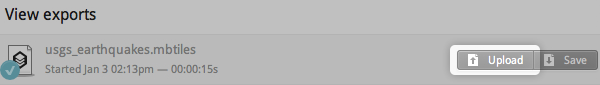
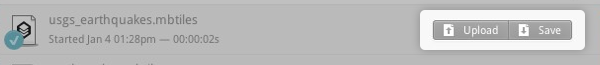
adding images, uploading doc, and geodata change

diff --git a/_posts/docs/crashcourse/0203-10-01-uploading.md b/_posts/docs/crashcourse/0203-10-01-uploading.md
@@ -1,0 +1,39 @@
+---
+layout: book
+section: documentation
+category: TileMill
+tag: crashcourse
+title: "Uploading maps"
+permalink: /docs/crashcourse/uploading/
+prereq:
+- "[Designed](http://mapbox.com/tilemill/docs/manual/) a map in [TileMill](http://mapbox.com/tilemill/)."
+nextup:
+- "[Editing](/hosting/editing) options on your map."
+- "[Compositing](/hosting/compositing) your map with other map layers."
+- "[Embedding](/hosting/embedding) your map on web pages and blogs."
+---
+{% include prereq.html %}
+
+Now that you've exported your map and created an [MBTiles](/mbtiles-spec) file, you can upload your map to MapBox Hosting.
+
+We'll use the earthquakes layer you exported in the previous section and upload directly to your account through TileMill.  
+
+1. Click the **Upload** button in the TileMill exports panel. 
+  ![Preview](/tilemill/assets/pages/upload-1.png)
+
+2. You will see a popup with a preview of your map so you can check it one last time. Once you're ready click the **Start Upload** button.
+  ![upload](/tilemill/assets/pages/upload-2.png)
+
+3. You will see a progress bar as your map uploads. 
+  ![upload](/tilemill/assets/pages/upload-2b.png)
+
+4. Once your map is uploaded, click **View** to preview the map on MapBox. 
+  ![upload](/tilemill/assets/pages/upload-3.png)
+
+5. At this time, your map will open up in your default browser and you will see a preview of your map. This preview map is temporary and will expire after 7 days unless you *publish* the map to a MapBox account. If you haven't signed up for an account, click **[Plans & Pricing](http://mapbox.com/plans)** to sign up for an account. 
+![upload](/tilemill/assets/pages/upload-4.png)
+
+6. If you already have an account at this point, now is the time to login. After you login, you will be taken back to the map preview. Click the **Publish this map** button to publish your map to your account.  
+![upload](/tilemill/assets/pages/upload-5.png)
+
+{% include nextup.html %}

diff --git a/_posts/docs/crashcourse/0203-03-01-geodata.md b/_posts/docs/crashcourse/0203-03-01-geodata.md
@@ -7,7 +7,6 @@ title: "Adding MapBox Geodata"
 permalink: /docs/crashcourse/add-geodata
 prereq:
 - "[Installed](/tilemill/docs/install) TileMill on your computer."
-- "[Added a shapefile](/tilemill/docs/crashcourse/add-shapefile)"
 nextup:
 - "[Using conditional styles](/tilemill/docs/crashcourse/conditional-styles/) to control the appearance of points based on data."
 - "[Adding tooltips](/tilemill/docs/crashcourse/tooltips/) to your map."
@@ -19,13 +18,7 @@ nextup:
 
 The MapBox GeoData Library is a collection of free datasets that have been optimized to work well with TileMill and offer an excellent source for geographic data. For more details about the MapBox GeoData Library, see the reference manual [here](). 
 
-For practice, we'll add a layer of populated places around the world to our tectonic plates map in the previous section.
-
-<ul class='checklist' markdown='1'>
-<li>
-Click [here](/tilemill/docs/crashcourse/add-shapefile) to jump back to adding a shapefile to your map.    
-</li>
-</ul>
+For practice, we'll add a layer of populated places around the world.
 
 1. Click **Add layer**.
 ![Add Layer](/tilemill/assets/pages/geodata-1.png)
@@ -38,7 +31,7 @@ Click [here](/tilemill/docs/crashcourse/add-shapefile) to jump back to adding a 
 6. Click **Done** to confirm your selection.  
 7. Click the **Save & Style** button to add the layer to your project and insert a default Carto rule for the layer.  
 ![Save and Style](/tilemill/assets/pages/geodata-7.png)
-8. Preview the result alongside the tectonic plates we added in the [previous section](/tilemill/docs/crashcourse/add-shapefile).  
+8. Preview the result in the map preview pane.  
 ![Preview](/tilemill/assets/pages/geodata-8.png)  
 
 {% include nextup.html %}
